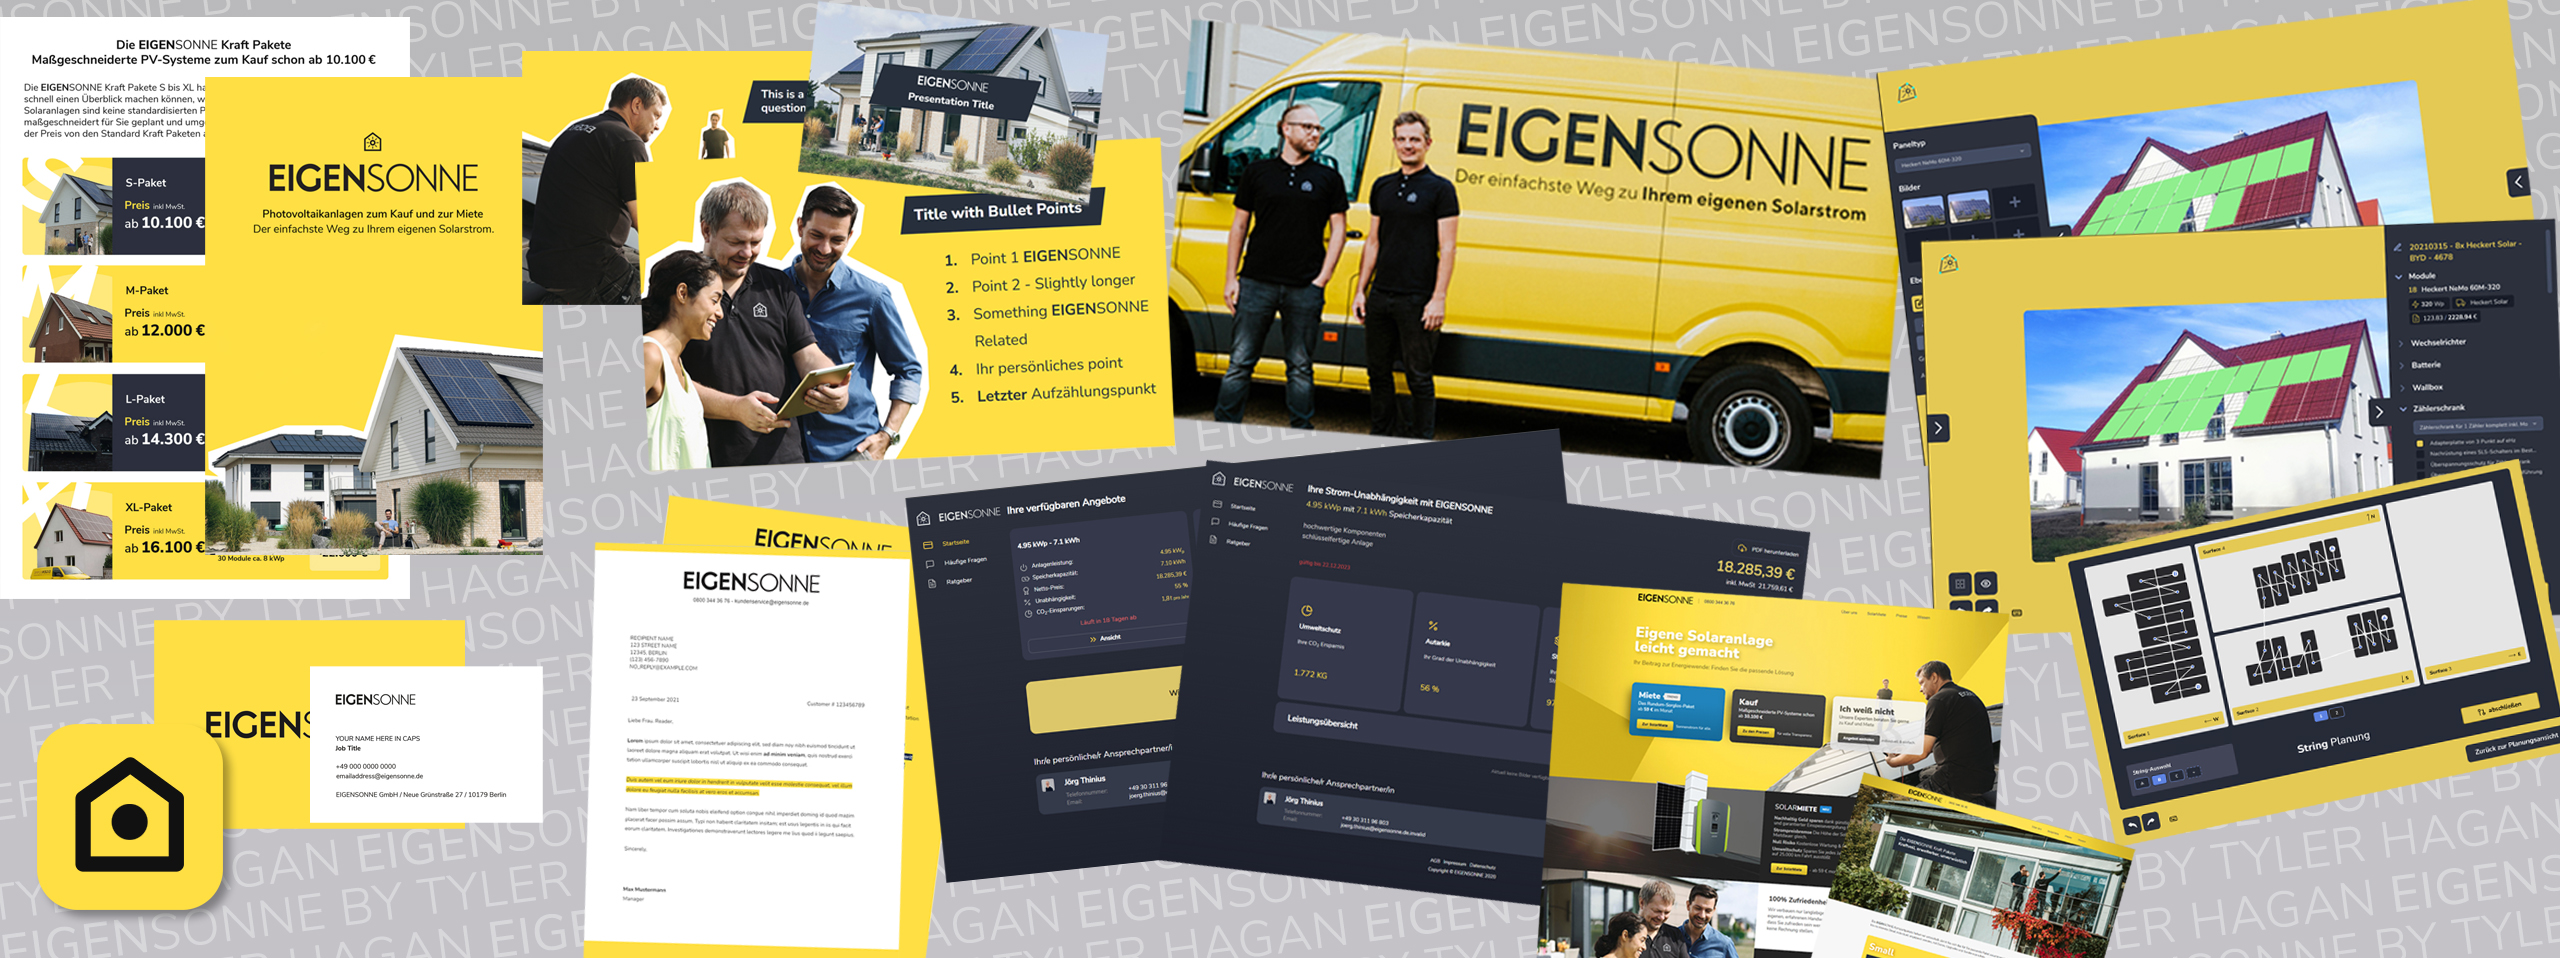
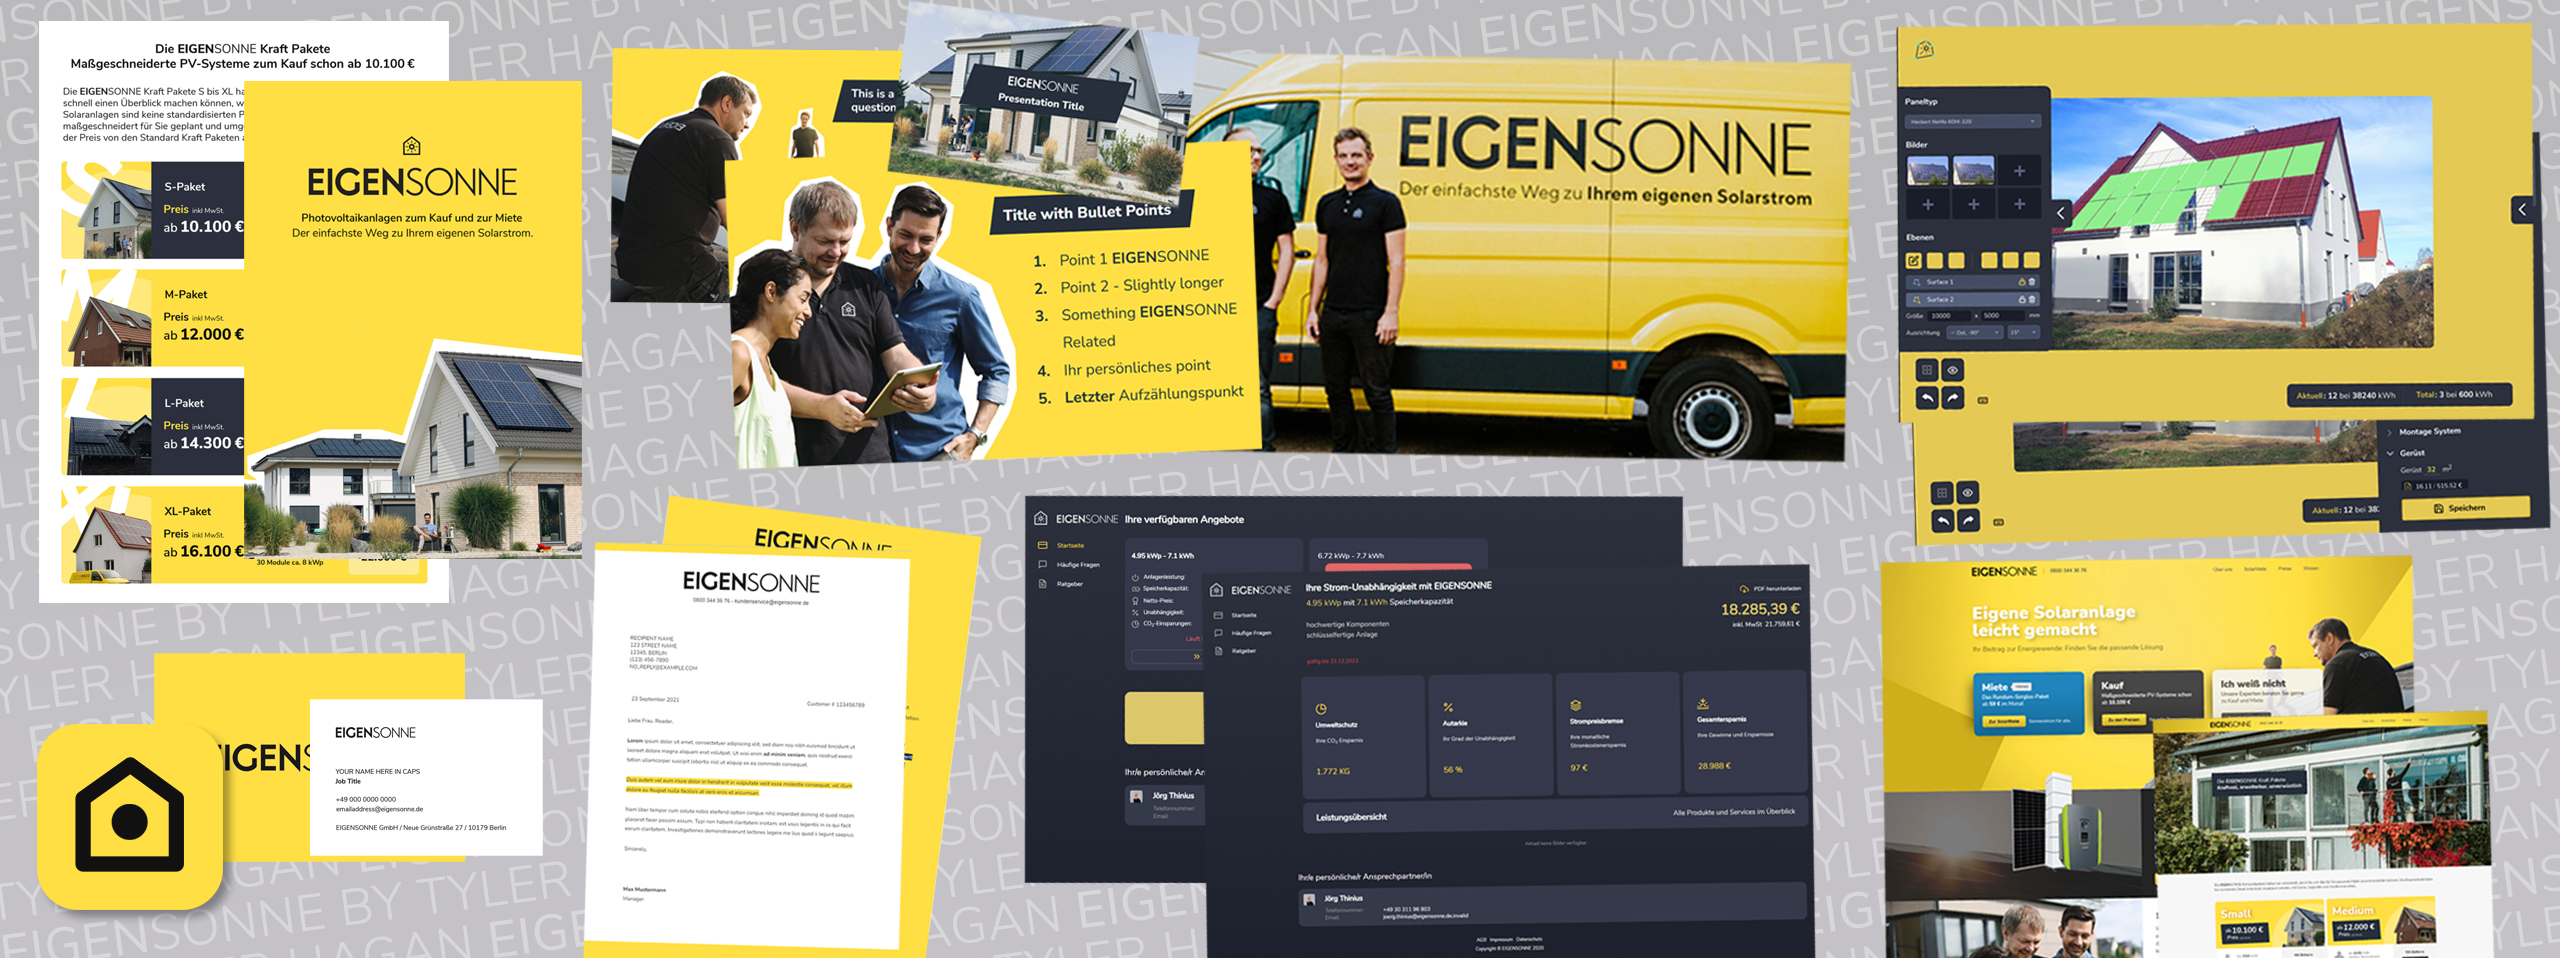
Addition of solar designer

diff --git a/index.html b/index.html
@@ -48,7 +48,7 @@
                 <div class="container grid-xl p-relative">
                     <div class="hero">
                         <div class="hero-body">
-                            <h1>Tyler Hagan is an England-born Product Designer & UI/UX Engineer crafting systems and experiences in Berlin, Germany.</h1>
+                            <h1>Tyler Hagan is an England-born Product Designer crafting systems and experiences in Berlin, Germany.</h1>
                             <p>Currently pushing the Energiewende at <a href="https://www.eigensonne.de/" target="_blank" rel="nofollow noopener">EIGENSONNE</a>.</p>
                         </div>
                     </div>
@@ -73,8 +73,8 @@
                     <div class="columns">
                         <div class="column col-12">
                             <h3 class="orange-block">Welcome</h3>
-                            <p>I am a Product Designer & UI/UX Engineer with <abbr title="Conversion Rate Optimisation">CRO</abbr> chops. I have a wide range of experience from big tech and agency to startups. The combination of my passion for code, human-centric design and understanding business needs; positions me in a unique place in the web, UI and product design worlds.</p>
-                            <p>Below you will find an example of my most recent commercial project and employment.</p>
+                            <p>I am a Product Designer & UI/UX Engineer with <abbr title="Conversion Rate Optimisation">CRO</abbr> chops. I have a wide range of experience from established agencies to startups. The combination of my passion for code, human-centric design and interaction, uniquely positions me in UI/UX and product design worlds.</p>
+                            <p>Below you will find a few examples of my work at EIGENSONNE over the last 6 years.</p>
                             <p><em>More work examples are available on request.</em></p>
                         </div>
                     </div>
@@ -84,7 +84,29 @@
                         <div class="column col-12">
                             <div class="section-header">
                                 <h2>Work</h2>
-                                <div class="text-small text-right font-serif text-uppercase">Commercial Recent Work</div>
+                            </div>
+                        </div>
+                        <!-- SOLARDESIGNER -->
+                        <div class="column col-12 project">
+                            <div class="columns">
+                                <div class="column col-5">
+                                    <h4 class="orange-block">Solar Designer</h4>
+                                    <p><strong>Software</strong> used to layout and design solar systems on customer roofs. Utilises two different views, one internal planner view and one customer facing, sales view used in video calls.</p>
+                                </div>
+                                <div class="column col-4">
+                                    <h4 class="black-block">Role</h4>
+                                    <p><strong>UX/UI Engineer</strong> Qualitative and quantative Research, design, design library creation and maintenance, prototype.</p>
+                                </div>
+                                <div class="column col-3">
+                                    <h4 class="black-block">Details</h4>
+                                    <span class="chip"><figure class="avatar avatar-sm" data-initial="📅"></figure> 2023</span><span class="chip">React</span><span class="chip">Figma</span><span class="chip">Sales</span><span class="chip">Prototype</span><span class="chip">Usage Analysis</span><span class="chip">Software</span><span class="chip">Full Screen</span>
+                                </div>
+                                <div class="column col-12 media">
+                                        <img src="assets/img/solardesigner-preview.jpg" alt="EIGENSONNE App Preview" loading="lazy" class="img-responsive" srcset="assets/img/solardesigner-preview.jpg 1x, assets/img/2x/eigenapp-preview.jpg 2x" />
+                                    <div class="text-right media-info">
+                                        <span>Designs, Protoype, Usage Research, User Interviews</span>
+                                    </div>
+                                </div>
                             </div>
                         </div>
                         <!-- EIGENAPP -->
@@ -96,7 +118,7 @@
                                 </div>
                                 <div class="column col-4">
                                     <h4 class="black-block">Role</h4>
-                                    <p><strong>UX/UI Engineer</strong> Product Strategy, prototype, end-to-end visual, interaction design and design system. Analytics and tracking ownership.</p>
+                                    <p><strong>Product Designer</strong> Product Strategy, prototype, end-to-end visual, interaction design and design system. Analytics and tracking ownership.</p>
                                 </div>
                                 <div class="column col-3">
                                     <h4 class="black-block">Details</h4>
